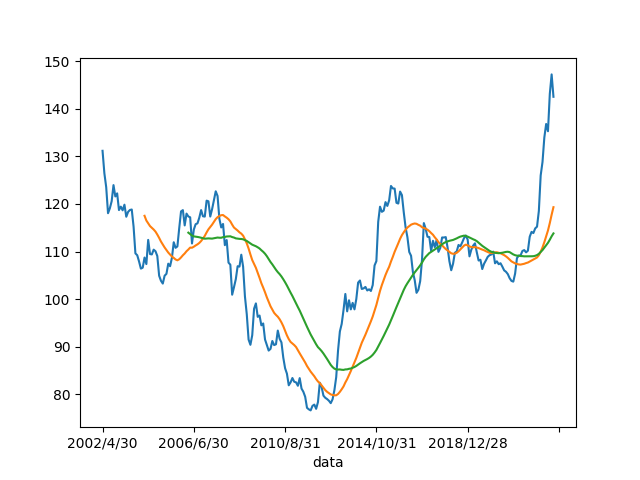
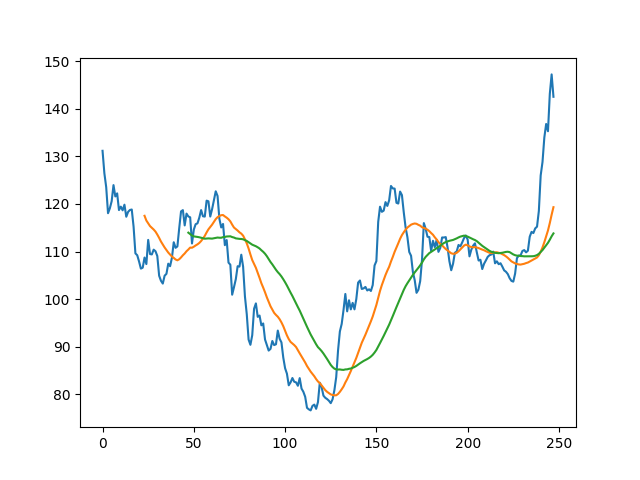
column_setthings_fixed

diff --git a/chap1/1-5/1_5_act.py b/chap1/1-5/1_5_act.py
@@ -1,24 +1,31 @@
 import matplotlib.pyplot as plt
 import numpy as np
 import pandas as pd
+import data_fix
 
-#データ確認
-df_historical = pd.read_csv('m_quote_fix.csv', encoding="shift-jis")
-# ここで、手動でカラム名'data'と付けた
+def fixed_data_index():
+    #データ確認
+    df_historical = pd.read_csv('m_quote_fix.csv', encoding="shift-jis")
+    # ここで、手動でカラム名'data'と付けた
 
-#カラム'data'をインデックスに設定
-df_i = df_historical.set_index('data')
+    #カラム'data'をインデックスに設定
+    # df_i = df_historical.set_index('data')
+    df_i = df_historical.rename(columns={'':'data'})
+    return df_i
 
-df_i.drop(columns=['Unnamed: 0'], inplace=True)
-print(df_i)
+def main():
+    data_fix.datafile_fixed()
+    df_i = fixed_data_index()
+    #24ヶ月移動平均
+    df_i_24 = df_i.USD.rolling(window=24).mean()
+    #48ヶ月移動平均
+    df_i_48 = df_i.USD.rolling(window=48).mean()
 
-#24ヶ月移動平均
-df_i_24 = df_i.USD.rolling(window=24).mean()
-#48ヶ月移動平均
-df_i_48 = df_i.USD.rolling(window=48).mean()
-
-df_i.USD.plot()
-df_i_24.plot()
-df_i_48.plot()
-plt.savefig("mean_3data.png")
-plt.show()
+    df_i.USD.plot()
+    df_i_24.plot()
+    df_i_48.plot()
+    plt.savefig("mean_3data.png")
+    plt.show()
+    
+if __name__ == "__main__":
+    main()

diff --git a/chap1/1-5/data_fix.py b/chap1/1-5/data_fix.py
@@ -1,0 +1,21 @@
+import matplotlib.pyplot as plt
+import numpy as np
+import pandas as pd
+
+def datafile_fixed():
+    #データ確認
+    df_historical = pd.read_csv('./m_quote.csv', encoding="shift-jis")
+
+    #データ修正
+    #1行目のデータを取得
+    new_clm = df_historical.loc[0,:]
+
+    #元々のファイルのカラム名を1行目のデータに変更
+    new_df = df_historical.rename(columns=new_clm)
+
+    #変換後の0行目を削除
+    new_df.drop(index=0, inplace=True)
+    new_df_r = new_df.reset_index(drop=True)
+
+    new_df_r.to_csv('./m_quote_fix.csv')
+
